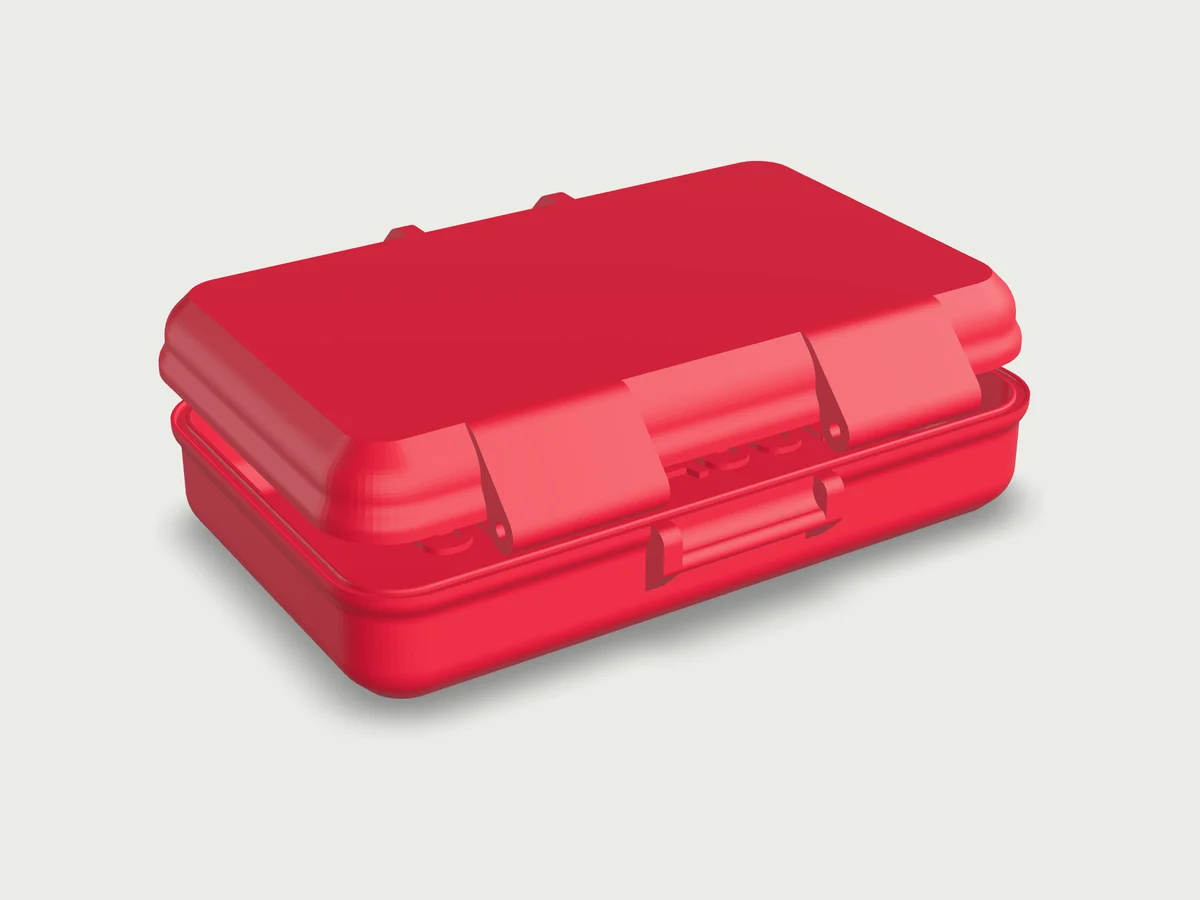
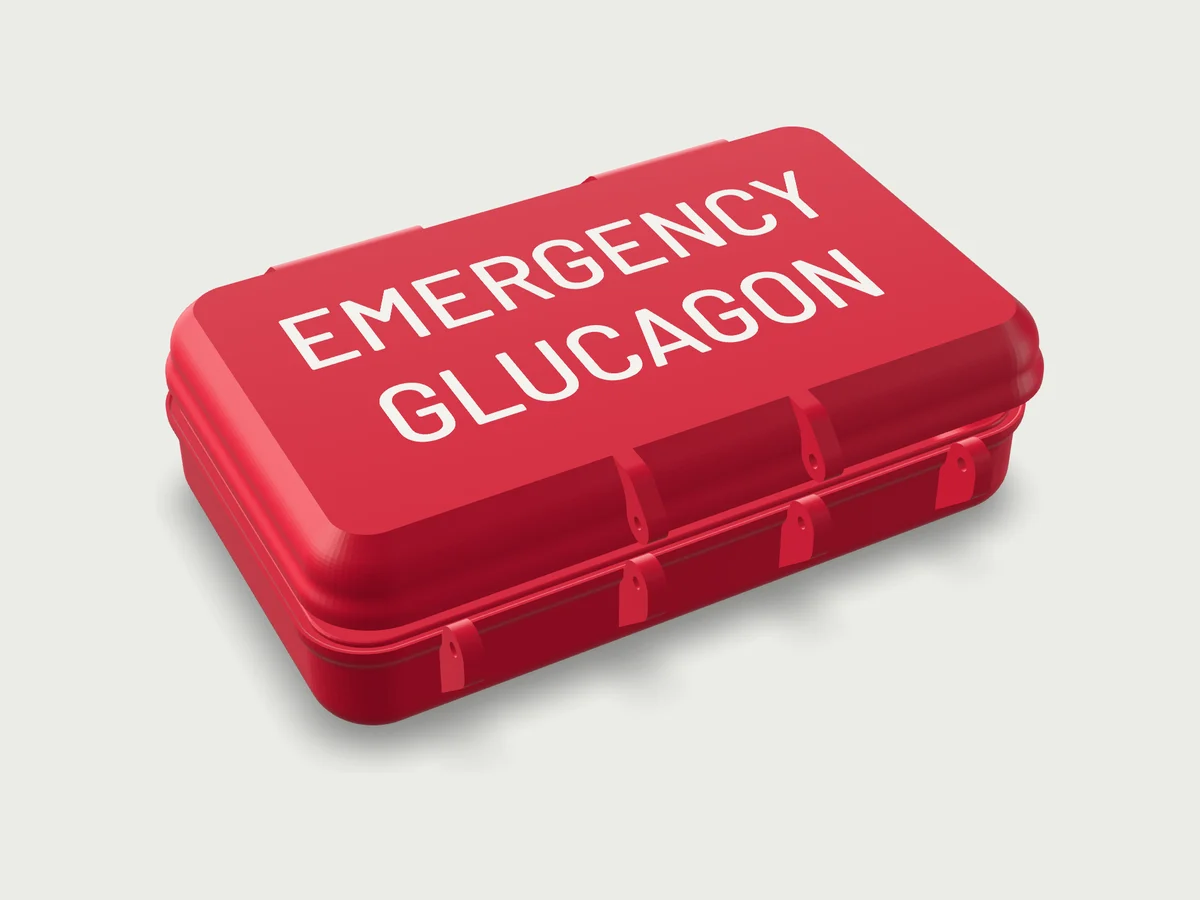
Use Etsy listing copy, reviews and real photos for current products
Glucagon case renders with white lettering and TPU liners as printed;
charger adapter uses Ben's product photo. Add an Etsy reviews section,
shop stats and the shop link (to confirm).

Claude-Session: https://claude.ai/code/session_018QMWRLmkbTcX7RejL2ZmzA

Changed region(s): [[0.1233, 0.1244, 0.8942, 0.84]]

diff --git a/index.html b/index.html
@@ -20,7 +20,7 @@
         <a href="ilet.html">iLet case</a>
         <a class="hide-sm" href="#products">Products</a>
         <a class="hide-sm" href="#about">About</a>
-        <a href="https://www.etsy.com/" target="_blank" rel="noopener">Shop</a>
+        <a href="https://www.etsy.com/shop/Phorbie" target="_blank" rel="noopener">Shop</a>
       </nav>
     </div>
   </header>
@@ -78,11 +78,11 @@
             <div class="pcard-media">
               <span class="pnum">02</span>
               <span class="tag">Best seller</span>
-              <img src="img/charger-adapter-red.webp" width="1200" height="900" alt="Red iLet Charger Adapter, a slotted 3D-printed holder" loading="lazy">
+              <img class="photo" src="img/charger-adapter-photo.webp" width="1200" height="900" alt="Red iLet Charger Adapter holding an iLet on its charging pad, with the gray base underneath" loading="lazy">
             </div>
             <div class="pcard-body">
               <h3>iLet Charger Adapter</h3>
-              <p>A 3D-printed holder for the iLet charging dock. <span class="ph">Copy from Etsy listing</span></p>
+              <p>Locks the iLet onto its charging pad in the same spot every time, so it stops sliding off the coil. Printed in PETG.</p>
               <div class="pmeta"><span class="pprice">$16</span><span class="dots"><i style="--c:#2A2A2D"></i><i style="--c:#F2F2EF"></i><i style="--c:#C62B3C"></i></span></div>
               <span class="pcta">Buy on Etsy <span aria-hidden="true">↗</span></span>
             </div>
@@ -90,11 +90,11 @@
           <a class="pcard reveal" href="https://www.etsy.com/listing/4451626435/glucagon-kit-case-protective-storage" target="_blank" rel="noopener">
             <div class="pcard-media">
               <span class="pnum">03</span>
-              <img src="img/glucagon-closed-red.webp" width="1200" height="900" alt="Red Glucagon Kit Case, a hinged clamshell box, closed" loading="lazy">
+              <img src="img/glucagon-closed-red.webp" width="1200" height="900" alt="Red Glucagon Kit Case, closed, with EMERGENCY GLUCAGON in white on the lid" loading="lazy">
             </div>
             <div class="pcard-body">
               <h3>Glucagon Kit Case</h3>
-              <p>A protective storage case for a glucagon vial and syringe. <span class="ph">Copy from Etsy listing</span></p>
+              <p>A hinged case with a soft TPU liner for a vial-and-syringe glucagon kit, marked EMERGENCY GLUCAGON on the lid. Case only.</p>
               <div class="pmeta"><span class="pprice">$39</span></div>
               <span class="pcta">Buy on Etsy <span aria-hidden="true">↗</span></span>
             </div>
@@ -119,6 +119,27 @@
           </ul>
           <p><a class="btn btn-primary" href="ilet.html">Colors, specs and FAQ <span aria-hidden="true">→</span></a></p>
         </div>
+      </div>
+    </section>
+
+    <section class="reviews band grain">
+      <div class="wrap">
+        <div class="section-head reveal">
+          <p class="eyebrow">From the Etsy reviews</p>
+          <h2>Wearers say it plainly.</h2>
+        </div>
+        <ul class="stats reveal">
+          <li><b>5.0</b><span>average rating</span></li>
+          <li><b>7</b><span>reviews</span></li>
+          <li><b>36</b><span>sales</span></li>
+          <li><b>San Diego</b><span>ships from</span></li>
+        </ul>
+        <div class="quotes">
+          <figure class="quote reveal"><blockquote>More than expected! Locks in the iLet on the charging pad! No more slipping and sliding and guessing if my iLet is in the right place to charge!</blockquote><figcaption>Sarah · iLet Charger Adapter</figcaption></figure>
+          <figure class="quote reveal"><blockquote>Not only was the seller very accommodating, they were able to customize for my requests. This fits my iLet perfectly.</blockquote><figcaption>Etsy buyer · iLet Charger Adapter</figcaption></figure>
+          <figure class="quote reveal"><blockquote>This is a very helpful addition to my iLet charger.</blockquote><figcaption>Martha · iLet Charger Adapter</figcaption></figure>
+        </div>
+        <p class="reveal"><a class="btn btn-ghost" href="https://www.etsy.com/shop/Phorbie" target="_blank" rel="noopener">Visit the Etsy shop <span aria-hidden="true">↗</span></a> <span class="ph">Confirm shop URL</span></p>
       </div>
     </section>
 
@@ -150,7 +171,7 @@
           <li><a href="ilet.html">Case for the iLet</a></li>
           <li><a href="https://www.etsy.com/listing/4457449473/ilet-charger-adapter" target="_blank" rel="noopener">iLet Charger Adapter</a></li>
           <li><a href="https://www.etsy.com/listing/4451626435/glucagon-kit-case-protective-storage" target="_blank" rel="noopener">Glucagon Kit Case</a></li>
-          <li><a href="https://www.etsy.com/" target="_blank" rel="noopener">Etsy shop</a></li>
+          <li><a href="https://www.etsy.com/shop/Phorbie" target="_blank" rel="noopener">Etsy shop</a></li>
         </ul>
       </div>
       <div>

diff --git a/ilet.html b/ilet.html
@@ -20,7 +20,7 @@
       <nav class="nav" aria-label="Main">
         <a href="ilet.html" aria-current="page">iLet case</a>
         <a class="hide-sm" href="index.html#about">About</a>
-        <a href="https://www.etsy.com/" target="_blank" rel="noopener">Shop</a>
+        <a href="https://www.etsy.com/shop/Phorbie" target="_blank" rel="noopener">Shop</a>
       </nav>
     </div>
   </header>
@@ -76,7 +76,7 @@
           </fieldset>
 
           <div class="btn-row">
-            <a class="btn btn-primary" href="https://www.etsy.com/" target="_blank" rel="noopener">Buy on Etsy</a>
+            <a class="btn btn-primary" href="https://www.etsy.com/shop/Phorbie" target="_blank" rel="noopener">Buy on Etsy</a>
             <span class="ph">Etsy listing link</span>
           </div>
           <p class="fine">Made to order in California. Ships in <span class="ph">X</span> business days. Pick your colors at checkout on Etsy.</p>
@@ -211,19 +211,19 @@
         </div>
         <div class="pgrid pgrid-2">
           <a class="pcard reveal" href="https://www.etsy.com/listing/4457449473/ilet-charger-adapter" target="_blank" rel="noopener">
-            <div class="pcard-media"><span class="pnum">02</span><span class="tag">Best seller</span><img src="img/charger-adapter-red.webp" width="1200" height="900" alt="Red iLet Charger Adapter, a slotted 3D-printed holder" loading="lazy"></div>
+            <div class="pcard-media"><span class="pnum">02</span><span class="tag">Best seller</span><img class="photo" src="img/charger-adapter-photo.webp" width="1200" height="900" alt="Red iLet Charger Adapter holding an iLet on its charging pad, with the gray base underneath" loading="lazy"></div>
             <div class="pcard-body">
               <h3>iLet Charger Adapter</h3>
-              <p>A 3D-printed holder for the iLet charging dock. <span class="ph">Copy from Etsy listing</span></p>
+              <p>Locks the iLet onto its charging pad in the same spot every time, so it stops sliding off the coil. Printed in PETG.</p>
               <div class="pmeta"><span class="pprice">$16</span><span class="dots"><i style="--c:#2A2A2D"></i><i style="--c:#F2F2EF"></i><i style="--c:#C62B3C"></i></span></div>
               <span class="pcta">Buy on Etsy <span aria-hidden="true">↗</span></span>
             </div>
           </a>
           <a class="pcard reveal" href="https://www.etsy.com/listing/4451626435/glucagon-kit-case-protective-storage" target="_blank" rel="noopener">
-            <div class="pcard-media"><span class="pnum">03</span><img src="img/glucagon-closed-red.webp" width="1200" height="900" alt="Red Glucagon Kit Case, a hinged clamshell box, closed" loading="lazy"></div>
+            <div class="pcard-media"><span class="pnum">03</span><img src="img/glucagon-closed-red.webp" width="1200" height="900" alt="Red Glucagon Kit Case, closed, with EMERGENCY GLUCAGON in white on the lid" loading="lazy"></div>
             <div class="pcard-body">
               <h3>Glucagon Kit Case</h3>
-              <p>A protective storage case for a glucagon vial and syringe. <span class="ph">Copy from Etsy listing</span></p>
+              <p>A hinged case with a soft TPU liner for a vial-and-syringe glucagon kit, marked EMERGENCY GLUCAGON on the lid. Case only.</p>
               <div class="pmeta"><span class="pprice">$39</span></div>
               <span class="pcta">Buy on Etsy <span aria-hidden="true">↗</span></span>
             </div>
@@ -245,7 +245,7 @@
           <li><a href="ilet.html">Case for the iLet</a></li>
           <li><a href="https://www.etsy.com/listing/4457449473/ilet-charger-adapter" target="_blank" rel="noopener">iLet Charger Adapter</a></li>
           <li><a href="https://www.etsy.com/listing/4451626435/glucagon-kit-case-protective-storage" target="_blank" rel="noopener">Glucagon Kit Case</a></li>
-          <li><a href="https://www.etsy.com/" target="_blank" rel="noopener">Etsy shop</a></li>
+          <li><a href="https://www.etsy.com/shop/Phorbie" target="_blank" rel="noopener">Etsy shop</a></li>
         </ul>
       </div>
       <div>

diff --git a/styles.css b/styles.css
@@ -323,3 +323,21 @@ table.specs { width: 100%; border-collapse: collapse; font-size: 0.98rem; min-wi
 @media (max-width: 960px) { .pgrid { grid-template-columns: 1fr 1fr; } .pcard-lead { grid-column: 1 / -1; } }
 @media (max-width: 600px) { .pgrid { grid-template-columns: 1fr; } .hero-word { font-size: 9rem; } }
 @media (prefers-reduced-motion: reduce) { .hero-glow, .ticker-track { animation: none; } }
+
+/* Reviews */
+.reviews { background: radial-gradient(90% 70% at 20% 10%, #4A4A4B, #262627 70%); }
+.reviews h2 { color: var(--band-fg); }
+.stats { list-style: none; padding: 0; margin: 2.2rem 0 0; display: grid; grid-template-columns: repeat(4, minmax(0,1fr)); gap: 1rem; border-block: 1px solid rgba(255,255,255,.12); }
+.stats li { display: grid; gap: .2rem; padding: 1.2rem 0; }
+.stats b { font: 850 clamp(1.8rem, 4vw, 2.8rem)/1 var(--font-display); font-stretch: 118%; color: var(--band-fg); letter-spacing: -0.02em; }
+.stats li:first-child b { color: var(--yellow); }
+.stats span { font: 500 .75rem var(--font-mono); letter-spacing: .12em; text-transform: uppercase; color: var(--band-muted); }
+.quotes { display: grid; grid-template-columns: 1.3fr 1fr 1fr; gap: 1.2rem; margin: 2.2rem 0; }
+.quote { margin: 0; padding: 1.6rem; border-radius: 16px; background: rgba(255,255,255,.05); border: 1px solid rgba(255,255,255,.1); display: grid; gap: 1rem; align-content: space-between; box-shadow: 0 20px 40px -30px rgba(0,0,0,.6); }
+.quote blockquote { margin: 0; font: 600 1.15rem/1.45 var(--font-display); color: var(--band-fg); }
+.quote blockquote::before { content: "★★★★★"; display: block; color: var(--orange); letter-spacing: .15em; font-size: .9rem; margin-bottom: .7rem; }
+.quote:first-child blockquote { font-size: 1.35rem; }
+.quote figcaption { font: 500 .78rem var(--font-mono); color: var(--band-muted); letter-spacing: .06em; }
+.reviews .btn-ghost { color: var(--band-fg); }
+@media (max-width: 860px) { .quotes { grid-template-columns: 1fr; } .stats { grid-template-columns: 1fr 1fr; } }
+.pcard-media img.photo { object-fit: cover; mix-blend-mode: normal; }
